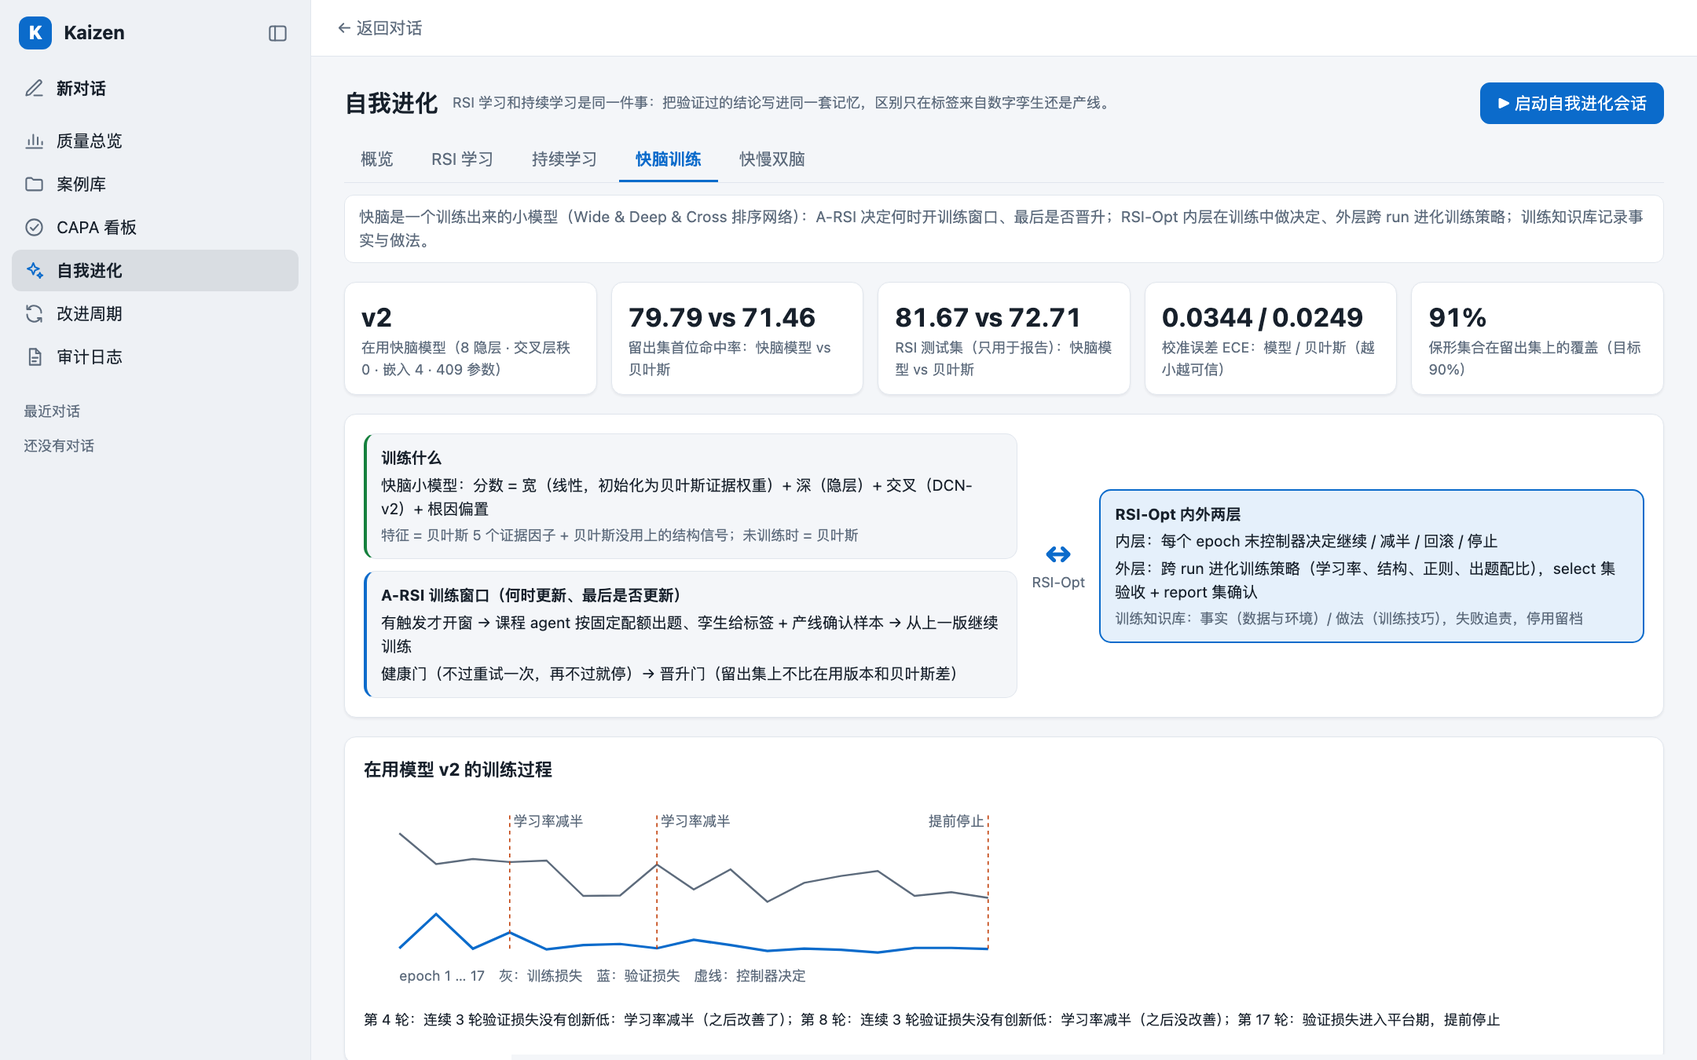
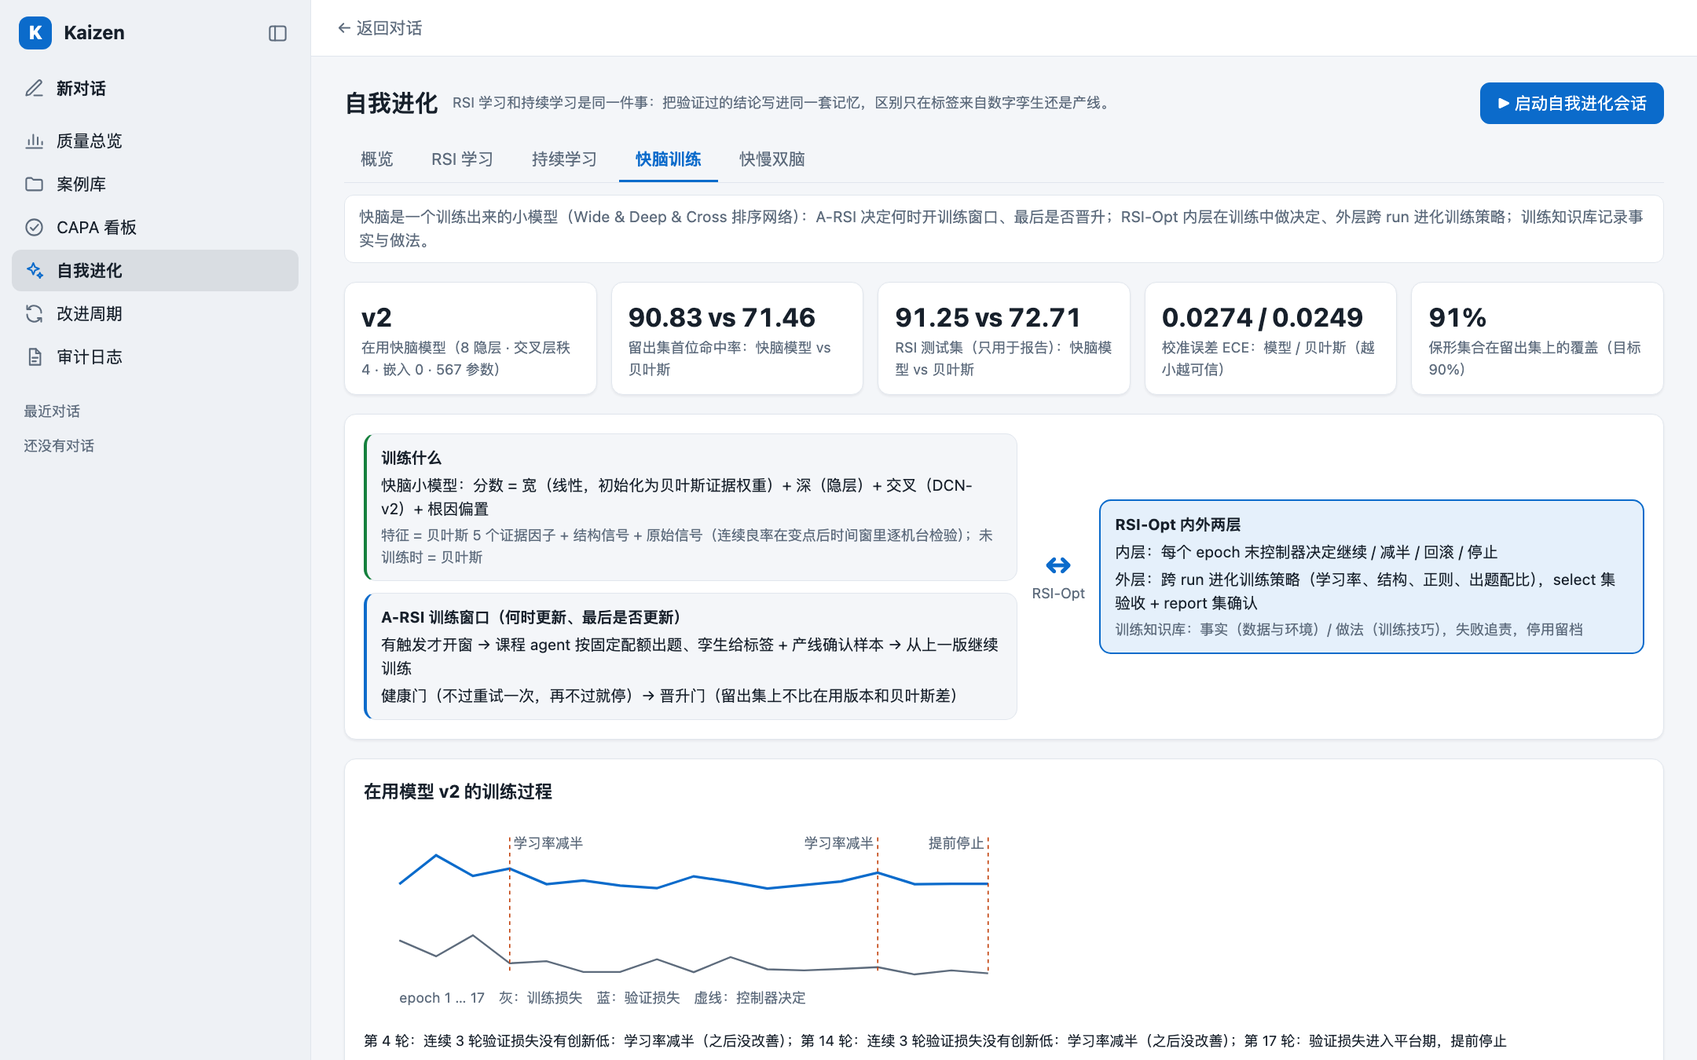
Feed raw-signal features to the fast brain and fix the DCN-v2 cross layer on
- Statistical kernel adds a raw-signal summary: global change point, then per-step, per-tool
  Welch t tests on the continuous yield / fail rate in the post-change window, plus pre-change
  offset and PM alignment; tool factors only (batch keys are a twin artefact)
- Fast brain gets 8 raw-signal features; 480-task test 81.3% -> 92.1% (hard tasks 71.2% -> 88.8%)
- Models trained on the old feature width fall back to Bayes; old cases get raw signals
  recomputed from their datasets before being used for training
- DCN-v2 cross layer is fixed on and no longer evolved by RSI-Opt
- Rename the slow-brain challengers to near-neighbour training / Bayesian opinion
- Docs, README results and screenshots refreshed from regenerated demo data

diff --git a/backend/app/static/app.js b/backend/app/static/app.js
@@ -600,7 +600,7 @@
         [a ? m.candidate.ece + " / " + m.bayes.ece : "-", "校准误差 ECE：模型 / 贝叶斯（越小越可信）"],
         [a && a.conformal ? pct(a.conformal.coverage_holdout) : "-", "保形集合在留出集上的覆盖（目标 90%）"]];
       view.innerHTML = head + '<div class="tiles">' + tiles.map(function (t) { return '<div class="tile"><div class="v">' + esc(t[0]) + '</div><div class="l">' + esc(t[1]) + "</div></div>"; }).join("") + "</div>" +
-        '<div class="panel"><div class="flow"><div class="flow-src"><div class="flow-box ok"><b>训练什么</b><span>快脑小模型：分数 = 宽（线性，初始化为贝叶斯证据权重）+ 深（隐层）+ 交叉（DCN-v2）+ 根因偏置</span><span class="muted small">特征 = 贝叶斯 5 个证据因子 + 贝叶斯没用上的结构信号；未训练时 = 贝叶斯</span></div>' +
+        '<div class="panel"><div class="flow"><div class="flow-src"><div class="flow-box ok"><b>训练什么</b><span>快脑小模型：分数 = 宽（线性，初始化为贝叶斯证据权重）+ 深（隐层）+ 交叉（DCN-v2）+ 根因偏置</span><span class="muted small">特征 = 贝叶斯 5 个证据因子 + 结构信号 + 原始信号（连续良率在变点后时间窗里逐机台检验）；未训练时 = 贝叶斯</span></div>' +
         '<div class="flow-box accent"><b>A-RSI 训练窗口（何时更新、最后是否更新）</b><span>有触发才开窗 → 课程 agent 按固定配额出题、孪生给标签 + 产线确认样本 → 从上一版继续训练</span><span>健康门（不过重试一次，再不过就停）→ 晋升门（留出集上不比在用版本和贝叶斯差）</span></div></div>' +
         '<div class="flow-arrow"><b class="arr">↔</b><span class="muted small">RSI-Opt</span></div>' +
         '<div class="flow-box mem"><b>RSI-Opt 内外两层</b><span>内层：每个 epoch 末控制器决定继续 / 减半 / 回滚 / 停止</span><span>外层：跨 run 进化训练策略（学习率、结构、正则、出题配比），select 集验收 + report 集确认</span><span class="muted small">训练知识库：事实（数据与环境）/ 做法（训练技巧），失败追责，停用留档</span></div></div></div>' +

diff --git a/backend/app/fastbrain/features.py b/backend/app/fastbrain/features.py
@@ -6,6 +6,10 @@
 - 贝叶斯没用上的结构信号：未达显著的机台信号 × 机台热点记忆、变点是否就在该根因的工序、PM 后突变是否发生在
   本工序的机台、FDC 偏移落在哪个参数、显著共性的类型是否与根因类型吻合……这些交互是乘积模型表达不了的。
 
+- 原始信号（v0.7）：统计内核从批次原始数据算出的连续指标检验（见 fab/analytics.raw_signals）——变点之后的时间窗里，
+  本工序最差机台的 Welch t 值、它领先第二差机台多少、变点之前是否本来就差、变点前是否刚做过 PM，以及别的工序和全案的
+  最强信号。二值失效的共性分析在弱异常时常常一个显著机台都找不到，连续指标在同样的数据里仍然看得出来。
+
 刻意不用的信号（防止学到仿真伪迹、在产线上失效）：
 - 未达显著的“物料批次”共性：孪生只给材料类根因生成批次字段，弱批次信号的“存在本身”就泄露了答案；
 - 未达 2σ 的 FDC 参数：孪生只监控可疑工序的参数，参数名的出现本身也会泄露工序；
@@ -43,6 +47,14 @@ FEATURES: tuple[tuple[str, str], ...] = (
     ("tool_sp", "机台类根因"),
     ("tool_x_batch", "机台类根因 × 首位共性是物料批次"),
     ("strong_any", "本案有显著共性"),
+    ("rs_t", "原始信号：变点后本工序最差机台"),
+    ("rs_gap", "原始信号：领先本工序第二差机台"),
+    ("rs_pre", "原始信号：该机台变点前就偏差"),
+    ("rs_hot", "原始信号最差机台 × 热点记忆"),
+    ("rs_pm", "原始信号：该机台变点前刚做过 PM"),
+    ("rs_other", "原始信号：别的工序的最强机台"),
+    ("rs_any", "原始信号：全案最强机台"),
+    ("rs_z", "原始信号：整体变点强度"),
 )
 NAMES = tuple(k for k, _ in FEATURES)
 LABELS = dict(FEATURES)
@@ -71,6 +83,11 @@ def candidate_rows(evidence: dict, symptom: str, mem: MemoryState, hyps: list[di
     cp_step = (cp.get("factor") or "").split("#")[0]
     after_pm = 1.0 if cp.get("after_pm") else 0.0
     fdc = evidence.get("fdc", []) or []
+    raw = evidence.get("raw_signals") or {}
+    rsteps = raw.get("steps") or {}
+    clip = lambda v, lo, hi: min(hi, max(lo, v))  # noqa: E731
+    r_any = clip(max((v["t"] for v in rsteps.values()), default=0.0) / 6, -1.0, 2.0)
+    r_z = clip(raw.get("z_star", 0.0) / 6, 0.0, 2.0)
     rows = []
     for h in hyps:
         found = cause_by_code(h["cause_code"])
@@ -95,8 +112,16 @@ def candidate_rows(evidence: dict, symptom: str, mem: MemoryState, hyps: list[di
         other_fdc = max((abs(x["z"]) for x in fdc if x["param"] not in params and abs(x["z"]) >= 2), default=0.0)
         cp_here = 1.0 if cp and cp_step == step else 0.0
         pm_rel = 1.0 if cause and cause.pm_related else 0.0
+        rs = rsteps.get(step) if tool_sp else None
+        r_t = clip(rs["t"] / 6, -1.0, 2.0) if rs else 0.0
+        r_hot = 0.0
+        if rs and hw and h["cause_code"] in table:
+            r_hot = clip(rs["t"] / 4, 0.0, 1.0) * math.log(max(_hotspot_factor(table, table[h["cause_code"]], rs["tool"], hw), 1e-6))
+        r_other = clip(max((v["t"] for k, v in rsteps.items() if k != step), default=0.0) / 6, -1.0, 2.0)
+        raw_feats = [r_t, clip(rs["gap"] / 6, 0.0, 2.0) if rs else 0.0, clip(rs["pre"] / 6, -2.0, 2.0) if rs else 0.0, r_hot,
+                     (1.0 if rs and rs["pm"] else 0.0) * pm_rel, r_other, r_any, r_z]
         rows.append([*lf, min(2.0, match / 4), min(2.0, mism / 4), weak, hot, weak * hot,
                      min(2.0, max((s["score"] for s in sig if s["step"] != step), default=0.0) / 4),
                      min(2.0, own_fdc / 4), min(2.0, other_fdc / 4), cp_here, cp_here * after_pm, pm_rel * after_pm,
-                     1.0 if tool_sp else 0.0, (1.0 if tool_sp else 0.0) * top_batch, 1.0 if sig else 0.0])
+                     1.0 if tool_sp else 0.0, (1.0 if tool_sp else 0.0) * top_batch, 1.0 if sig else 0.0, *raw_feats])
     return hyps, rows

diff --git a/backend/app/fab/analytics.py b/backend/app/fab/analytics.py
@@ -3,7 +3,10 @@
 1. 共性分析（Commonality）：失效批次在哪台机台/腔体/物料批次上显著富集 —— Fisher 精确检验 + Bonferroni 校正；
 2. 变点检测：可疑机台从哪天开始变坏，是否紧跟 PM 事件；
 3. 晶圆图空间特征分类：边缘环 / 中心 / 划痕 / 簇状 / 随机；
-4. FDC 参数偏移：变点前后传感器均值偏移多少个 σ。
+4. FDC 参数偏移：变点前后传感器均值偏移多少个 σ；
+5. 原始信号（v0.7，给快脑小模型用）：用连续的良率 / 失效率而不是“是否失效”的二值，先找整体变点，
+   再在变点之后的时间窗里按工序逐台机台做 Welch t 检验；同时看该机台变点之前是否本来就差、变点前是否刚做过 PM。
+   只用每道工序都有的机台因子（物料批次字段在孪生里只给材料类根因生成，用它会泄露答案）。
 
 输出“证据摘要”，供贝叶斯因果图谱做根因排序。
 """
@@ -183,6 +186,56 @@ def fdc_shift(fdc: dict[str, list[dict]], tool: str, since: str | None) -> list[
     return sorted(out, key=lambda x: -abs(x["z"]))
 
 
+def _welch(a: list[float], b: list[float]) -> float:
+    if len(a) < 3 or len(b) < 3:
+        return 0.0
+    ma, mb = mean(a), mean(b)
+    va = sum((x - ma) ** 2 for x in a) / (len(a) - 1)
+    vb = sum((x - mb) ** 2 for x in b) / (len(b) - 1)
+    se = math.sqrt(va / len(a) + vb / len(b)) or 1e-9
+    return (ma - mb) / se
+
+
+def raw_signals(ds: dict) -> dict:
+    """原始信号摘要：整体变点 + 变点后时间窗内逐工序、逐机台的连续指标检验（坏的方向为正）。"""
+    lots = sorted(ds.get("lots") or [], key=lambda l: l["time"])
+    if len(lots) < 24:
+        return {}
+    key = "yield" if "yield" in lots[0] else "fail_rate"
+    bad = [(-l[key] if key == "yield" else l[key]) for l in lots]
+    n = len(bad)
+    pre = [0.0]
+    for v in bad:
+        pre.append(pre[-1] + v)
+    sd = pstdev(bad) or 1e-9
+    best_k, best_z = n // 2, 0.0
+    for k in range(10, n - 10):  # 整体变点：变坏幅度的标准化差最大处（两侧各至少 10 批）
+        m1, m2 = pre[k] / k, (pre[n] - pre[k]) / (n - k)
+        z = (m2 - m1) / sd * math.sqrt(k * (n - k) / n)
+        if z > best_z:
+            best_k, best_z = k, z
+    t_star = lots[best_k]["time"]
+    pms = [e for e in ds.get("events", []) if e.get("type") == "PM"]
+    steps = sorted({f for l in lots for f in l["steps"] if f in STEPS})
+    out = {}
+    for f in steps:
+        tools = sorted({l["steps"][f] for l in lots if f in l["steps"]})
+        if len(tools) < 2:
+            continue
+        rows = []
+        for t in tools:
+            post_in = [b for l, b in zip(lots[best_k:], bad[best_k:]) if l["steps"].get(f) == t]
+            post_out = [b for l, b in zip(lots[best_k:], bad[best_k:]) if l["steps"].get(f) not in (None, t)]
+            pre_in = [b for l, b in zip(lots[:best_k], bad[:best_k]) if l["steps"].get(f) == t]
+            pre_out = [b for l, b in zip(lots[:best_k], bad[:best_k]) if l["steps"].get(f) not in (None, t)]
+            rows.append((_welch(post_in, post_out), _welch(pre_in, pre_out), t))
+        rows.sort(key=lambda r: -r[0])
+        t_best, t_pre, tool = rows[0]
+        pm = any(e["tool"] == tool and -72 <= _hours(e["time"], t_star) <= 24 for e in pms)
+        out[f] = {"tool": tool, "t": round(t_best, 2), "gap": round(t_best - rows[1][0], 2), "pre": round(t_pre, 2), "pm": pm}
+    return {"t_star": t_star, "z_star": round(best_z, 2), "steps": out}
+
+
 def analyze_dataset(ds: dict) -> dict:
     """原始数据 → 证据摘要。"""
     lots = ds["lots"]
@@ -209,4 +262,5 @@ def analyze_dataset(ds: dict) -> dict:
         "wafer_pattern_conf": round(votes[pattern] / max(1, len(sigs)), 2) if pattern else None,
         "wafer_signatures": sigs,
         "step_names": {k: STEPS[k].name for k in {s["step"] for s in suspects} if k in STEPS},
+        "raw_signals": raw_signals(ds),
     }

diff --git a/backend/app/fastbrain/data.py b/backend/app/fastbrain/data.py
@@ -18,7 +18,8 @@ from collections import OrderedDict
 from sqlmodel import Session, col, select
 
 from ..fab.analytics import analyze_dataset
-from ..models import Case, HarnessReceipt
+from ..fab.analytics import raw_signals
+from ..models import Case, FabDataset, HarnessReceipt
 from ..rsi.agents import Curriculum
 from ..rsi.memory import MemoryState
 from ..rsi.twin import FabTwin, TaskSpec, observed_symptom
@@ -27,7 +28,7 @@ from .features import candidate_rows
 POOL_SEED, CAL_SEED = 7_500_000, 8_900_000  # 训练池 750 万 ~ 990 万段（按池编号轮换 24 块）；校准集固定
 HOLDOUT_BASE, HOLDOUT_ROUNDS, HOLDOUT_SPAN = 10_000_000, 40, 50_000  # 留出集每晋升一次换一块（1000 万 ~ 1200 万段）
 HOLDOUT_PER_SYMPTOM, CAL_PER_SYMPTOM = 40, 20
-KEEP = ("summary", "suspects", "change_point", "fdc")
+KEEP = ("summary", "suspects", "change_point", "fdc", "raw_signals")
 _OBS: OrderedDict = OrderedDict()
 _OBS_MAX = 24_000
 
@@ -101,7 +102,13 @@ def receipt_samples(db: Session, mem: MemoryState, weight: float, limit: int = 4
         truth = (rc.outcome or {}).get("cause_code")
         if not truth or not case.evidence or not rc.symptom:
             continue
-        s = to_sample({"symptom": rc.symptom, "evidence": case.evidence, "truth": truth}, mem, weight, "line")
+        ev = case.evidence
+        if "raw_signals" not in ev:  # 升级前分析的案例没有原始信号摘要：有原始数据就补算，没有就不用它训练
+            ds = db.get(FabDataset, case.id)
+            if ds is None or not ds.data:
+                continue
+            ev = {**ev, "raw_signals": raw_signals(ds.data)}
+        s = to_sample({"symptom": rc.symptom, "evidence": ev, "truth": truth}, mem, weight, "line")
         s["receipt"] = rc.id
         out.append(s)
     return out

diff --git a/backend/app/fastbrain/model.py b/backend/app/fastbrain/model.py
@@ -13,7 +13,8 @@ Google 的大规模排序系统，显式特征交叉）；损失用列表式 sof
 
 - 初始化时 v、w_c、偏置都为 0：未训练的模型 = 贝叶斯排序。训练学的是“在贝叶斯之上的校正”，
   晋升门要求它在留出题上不比贝叶斯差，才拿到裁决权。
-- 结构超参数（隐层宽度、交叉层秩、嵌入维度）由训练策略决定，RSI-Opt 外层可以按实测结果改它们。
+- DCN-v2 交叉层固定开启（加了原始信号特征后，命中率不变、概率校准更好：ECE 0.021 → 0.014）；
+  隐层宽度、根因嵌入维度由训练策略决定，RSI-Opt 外层可以按实测结果改它们。
 - 训练 = Adam + L2（宽部分锚定在贝叶斯权重，全部参数锚定在上一版，连续训练时不遗忘）；
   训练循环里有控制器（RSI-Opt 的内层）：每个 epoch 末决定继续 / 降学习率 / 回滚 / 提前停止。
 """
@@ -80,11 +81,12 @@ class FastModel:
         return FastModel(self.H, list(self.theta), T=self.T, rank=self.R, emb=self.K)
 
     def to_dict(self) -> dict:
-        return {**self.arch, "T": round(self.T, 4), "theta": [round(v, 5) for v in self.theta]}
+        return {**self.arch, "d": D, "T": round(self.T, 4), "theta": [round(v, 5) for v in self.theta]}
 
     @classmethod
     def from_dict(cls, d: dict | None) -> "FastModel | None":
-        if not d or not d.get("theta"):
+        """特征维度变了（例如新增了原始信号特征）的旧模型不能再用：返回 None，快脑退回贝叶斯，等下一个训练窗口。"""
+        if not d or not d.get("theta") or d.get("d", 19) != D:
             return None
         return cls(d["hidden"], d["theta"], T=d.get("T", 1.0), rank=d.get("rank", 0), emb=d.get("emb", 0))
 

diff --git a/backend/app/fastbrain/optimize.py b/backend/app/fastbrain/optimize.py
@@ -35,7 +35,7 @@ SPACE: dict[str, tuple[list, object, str]] = {
     "lr": ([0.005, 0.01, 0.02, 0.04], 0.01, "学习率（Adam）"),
     "epochs": ([20, 30, 40, 60], 40, "最多训练轮数（控制器可能提前停止）"),
     "hidden": ([4, 8, 12], 8, "深部分隐层宽度"),
-    "rank": ([0, 4], 4, "DCN-v2 交叉层的秩（0 = 不用交叉层）"),
+    "rank": ([4], 4, "DCN-v2 交叉层的秩（固定开启，不参与进化）"),
     "emb": ([0, 4], 4, "根因 ID 嵌入维度（0 = 不用嵌入）"),
     "l2": ([1e-4, 3e-4, 1e-3, 3e-3], 3e-4, "L2 正则（宽部分锚定在贝叶斯权重）"),
     "bias_l2": ([3e-4, 1e-3, 3e-3, 1e-2], 1e-3, "根因偏置层的 L2"),
@@ -108,7 +108,8 @@ def _public(ev: dict) -> dict:
     return {k: v for k, v in ev.items() if not k.startswith("_")}
 
 
-SEARCHED = [k for k in SPACE if k != "anchor"]  # anchor 只在连续训练里起作用，外层从贝叶斯初始化公平比较时不搜索它
+# anchor 只在连续训练里起作用（外层从贝叶斯初始化公平比较时不搜索它）；只有一个取值的旋钮（交叉层秩，固定开启）也不搜索
+SEARCHED = [k for k in SPACE if k != "anchor" and len(SPACE[k][0]) > 1]
 
 
 def _propose(db: Session, parent: dict, n_edits: int, rng: random.Random) -> tuple[dict, list[dict]]:

diff --git a/backend/tests/test_fastbrain.py b/backend/tests/test_fastbrain.py
@@ -24,6 +24,29 @@ def test_untrained_model_equals_bayes_ranking():
         assert max(abs(a - h["posterior"]) for a, h in zip(p, hyps)) < 1e-3
 
 
+def test_raw_signals_find_the_excursion_tool_without_batch_leakage():
+    from app.fab.analytics import raw_signals
+
+    tw = FabTwin()
+    hits = n = 0
+    for i in range(16):
+        t = tw.make_task(TaskSpec("OVL_DRIFT", "medium"), 7_100 + i)
+        rs = raw_signals(t.observation)
+        assert rs and all("#" not in k for k in rs["steps"])  # 只用每道工序都有的机台因子，不用物料批次（孪生伪迹）
+        if t.hidden["tool"]:
+            best = max(rs["steps"].items(), key=lambda kv: kv[1]["t"])
+            n += 1
+            hits += best[1]["tool"] == t.hidden["tool"]
+    assert n and hits / n >= 0.6  # 中等强度的异常：连续指标的时间窗检验多数能指到真正的机台
+
+
+def test_old_models_with_fewer_features_fall_back_to_bayes():
+    m = FastModel(4, seed=1, rank=0, emb=2)
+    d = m.to_dict()
+    assert FastModel.from_dict(d) is not None
+    assert FastModel.from_dict({**d, "d": D - 8}) is None  # 特征维度变了的旧模型不再使用
+
+
 def test_backprop_matches_numerical_gradient():
     rng = random.Random(0)
     m = FastModel(3, seed=1, rank=2, emb=2)

diff --git a/docs/05-RSI与Harness文献对照.md b/docs/05-RSI与Harness文献对照.md
@@ -114,8 +114,11 @@
 - **Kaizen 怎么做**
   - **结构**：Wide & Deep & Cross。宽部分初始化为 RSIAgent 学到的贝叶斯证据权重，深部分一层隐层，交叉部分是 DCN-v2 低秩交叉层，再加根因 ID 嵌入和根因偏置层。未训练时完全等于贝叶斯排序。
   - **特征**：贝叶斯 5 个证据因子之外，再加贝叶斯乘积模型表达不了的结构信号，例如未达显著的机台信号 × 机台热点记忆、变点是否就在本工序、PM 后突变是否在本工序机台。刻意剔除会泄露答案的仿真伪迹。
+  - **原始信号特征**：统计内核原来把良率二值化成“失效 / 不失效”再做 Fisher 检验，弱异常时大部分信息在这一步就丢了。新增的原始信号用连续指标，在整体变点之后的时间窗里逐工序、逐机台做 Welch t 检验，再加上变点前是否本来就差、变点前是否刚做过 PM。
+    - 离线对照（同一 480 题测试集）：原特征 81.3% → 加原始信号 92.1%，困难题 71.2% → 88.8%，对数损失 0.49 → 0.23。
+    - 工业模型对照（原特征上）：深度集成（TabM 思路）、列表上下文（PRM / SetRank 思路）、GBDT（LambdaMART 式）都在 81% 左右，说明瓶颈在信息量而不在模型结构；特征变丰富之后，交叉层让校准再好一点（ECE 0.021 → 0.014），命中率不变。
   - **实测**（同一 480 题 RSI 测试集）：贝叶斯 75.2%；Wide & Deep 81.9%；加交叉层和嵌入后 81.9%，对数损失 0.69 → 0.49，ECE 0.077 → 0.013。贝叶斯这一类模型的天花板（真实先验 + 在测试集上拟合权重）只有 74.6%。
-  - 交叉层没带来可测的提升：关键交互已经做成特征了。因此结构超参数交给 RSI-Opt 外层按实测结果决定。
+  - 交叉层在原特征上没带来可测的提升（关键交互已经做成特征了）；加了原始信号之后命中率仍然不变，但概率校准更好，所以固定开启，不再交给 RSI-Opt 决定。
   - **没用 GBDT 的原因**：需要下载原生库；而且 GBDT 不方便做“只改偏置层的测试时训练”和“锚定上一版的连续训练”。
   - **裁决权**：通过晋升门才拿到；否则快脑退回贝叶斯。快脑的校准概率同时是路由依据和报告里的置信度。
 
@@ -159,7 +162,7 @@
   - 它的教训：没有验收门，训练任务上一路上涨（+10.48 → +14.33），留出任务第 1 代之后就不再提升。
 - **Kaizen 怎么做**
   - **内层**：每个 epoch 末，控制器决定继续、学习率减半、回滚到最好的一轮或提前停止。
-  - **外层**：进化训练策略，包括学习率、轮数、隐层宽度、交叉层秩、嵌入维度、正则、出题配比和产线样本权重。
+  - **外层**：进化训练策略，包括学习率、轮数、隐层宽度、嵌入维度、正则、出题配比和产线样本权重（DCN-v2 交叉层固定开启）。
     - 每个候选从贝叶斯初始化重新训练，公平比较；search 池训练，select 集验收，report 集只用一次确认。
     - 噪声带内只接受更便宜或更简单的。
   - **何时跑**：事件触发——还没有策略，或连续 2 个训练窗口没通过。
@@ -258,5 +261,5 @@
 - 快脑模型的训练标签在孪生里由程序给出；孪生没有用本厂数据校准之前，模型学到的“现在哪个根因常见”是孪生的。产线时间留出与产线回放是为了尽早发现这种差距。
 - 测试时训练与近邻练习在平常场景基本不改判，它们的价值集中在产线变更之后、下一个训练窗口之前。
 - 三套门都偏严，多数候选会被拒（RRSI 原文 30 轮中 10 轮被接受）。这是有意的：工业场景里“不上线”比“上线一个靠运气挑出来的版本”便宜。
-- 交叉层在当前特征上没有带来可测的提升；如果以后特征改成原始信号，交叉层的价值才会体现出来。
+- 交叉层固定开启：它在命中率上没有可测的提升，换来的是概率校准更好（ECE 0.021 → 0.014）和约 1.6 倍的参数量。
 - 首次生成演示数据较慢（历史回放里要训练快脑、跑慢脑和 RRSI）；服务器仍然 2 秒内可用，数据在后台生成。
